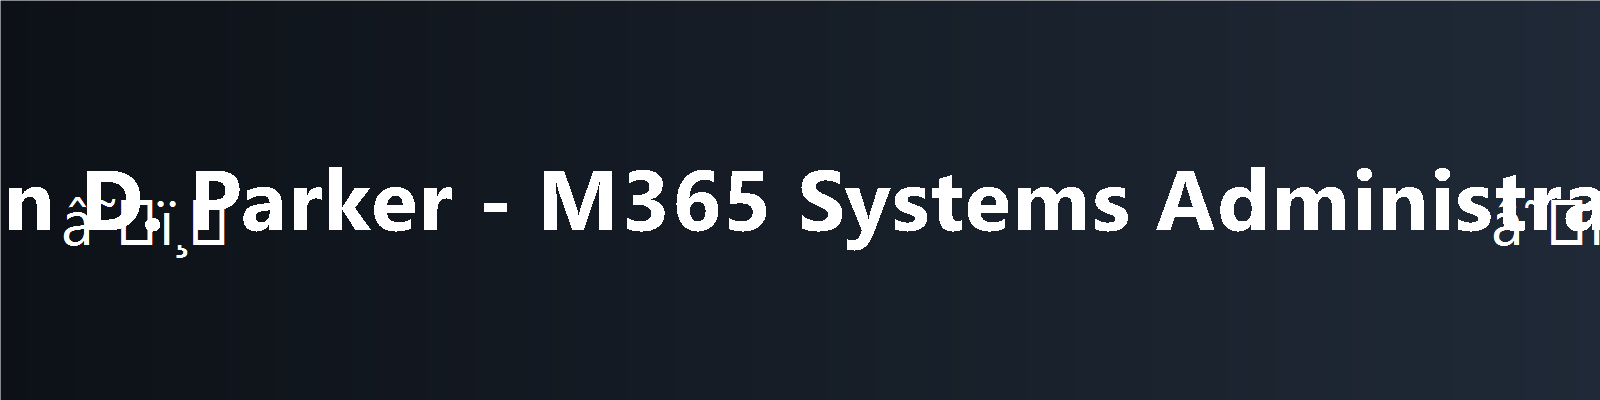
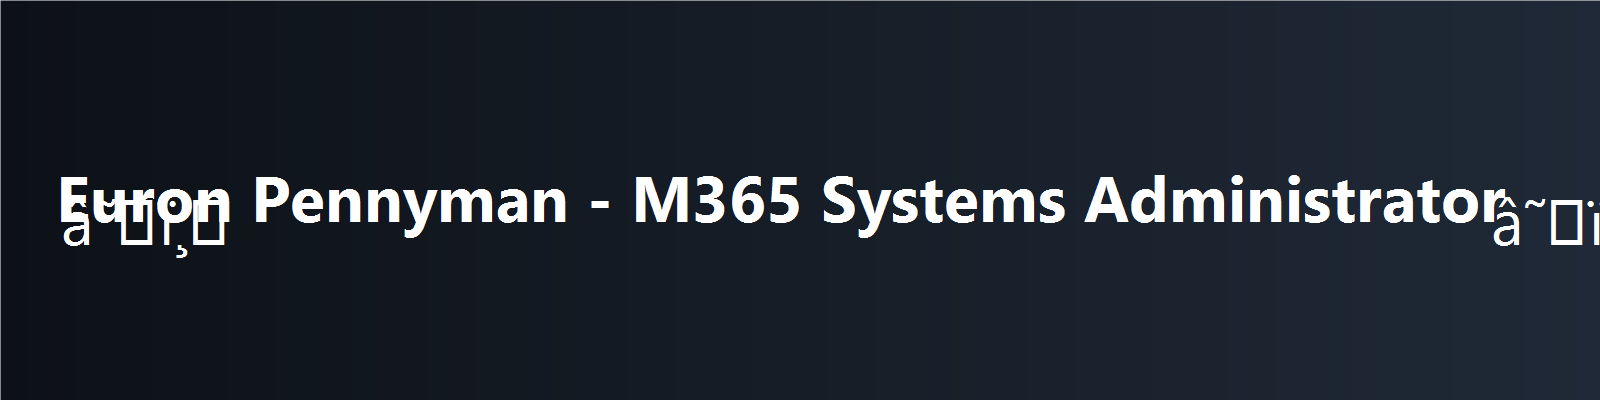
Intial Euron Pennyman M365 portfolio commit

Changed region(s): [[0.0, 0.42, 1.0, 0.63]]

diff --git a/README.md b/README.md
@@ -1,4 +1,5 @@
-
+<!-- ================================================== -->
+<!-- BANNER PLACEHOLDER -->
 <p align='center'>
   <img src='banner.png' alt='Euron Pennyman — Microsoft 365 Systems Administrator Banner' width='100%'>
 </p>
@@ -50,7 +51,7 @@ m365-systems-admin-portfolio
 <a href='https://www.linkedin.com/in/euron-pennyman-499018376/'>
   <img src='https://img.shields.io/badge/LinkedIn-Connect-blue?logo=linkedin&logoColor=white' />
 </a>
-<a href='https://github.com/kremedela/m365-systems-admin-portfolio.git'>
+<a href='https://github.com/kremedela/m365-systems-admin-portfolio'>
   <img src='https://img.shields.io/badge/GitHub-Profile-black?logo=github' />
 </a>
 </p>
@@ -58,6 +59,3 @@ m365-systems-admin-portfolio
 <p align='center'>
   <sub>© 2025 — Euron Pennyman • Microsoft 365 Systems Administrator Portfolio • Built with ❤ and PowerShell</sub>
 </p>
-=======
-# m365-systems-admin-portfolio
->>>>>>> 967bf37c6af84f00bd65b218d2b86c35c8dde5b3
